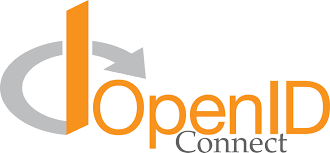
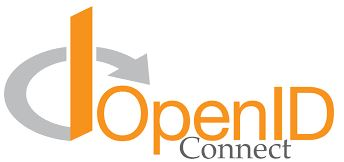
address tony comments on images

diff --git a/pages/Implementation/ImpGuide_ASPExample.md b/pages/Implementation/ImpGuide_ASPExample.md
@@ -21,11 +21,13 @@ Four steps are involved in getting going from scratch:
 ### Create your basic ASP.NET Core web application
 To create you new web site just create a new project in VS 2017 and choose the ASP.NET Core Web Application
 
-![ASnet Appl](images/ASPEx1.jpg)
+
+<img src="./images/ASPEx1.jpg" alt="ASP.net"/>
 
 Next you just pick Web Application with no authentiation.
 
-![asp net 2](images/ASPEx2.jpg)
+
+<img src="./images/ASPEx2.jpg" alt="ASP.net"/>
 
 Next get the [Microsoft Middleware OpenID Connect packages](https://www.nuget.org/packages/Microsoft.AspNetCore.Authentication.OpenIdConnect/)
 

diff --git a/pages/AuthenticationTypes/AuthType_Certs.md b/pages/AuthenticationTypes/AuthType_Certs.md
@@ -7,7 +7,13 @@ toc: true
 summary: A brief introduction to Certificates (X509) Authentication type within NHS Digital's Care Access Service.
 ---
 
-![Digital Certificates](images/DigitalCertificates.jpg)
+[](![Digital Certificates](images/DigitalCertificates.jpg))
+
+<img src="./images/DigitalCertificates.jpg" alt="Authentication types Digitial Certificates"/>
+
+
+
+
 
 X.509 digital certificates can enable secure authentication without the need for user names and passwords or other credentials. 
 

diff --git a/pages/AuthenticationTypes/AuthType_OpenIDC_SC.md b/pages/AuthenticationTypes/AuthType_OpenIDC_SC.md
@@ -8,5 +8,7 @@ summary: A brief introduction to Legacy OpenID Connect Smart Card Authentication
 ---
 
 |**OpenId Connect Smart Card Authentication**|
-|![OpenId Connect](images/OpenIDConnect.jpg)|
+|<img src="./images/OpenIDConnect.jpg" alt="OpenID Connect Logo"/>|
 |This will allow client applications to authenticate via the NHS Digital Smart-card Identity Agent when using the OpenID Connect interface.|
+
+
